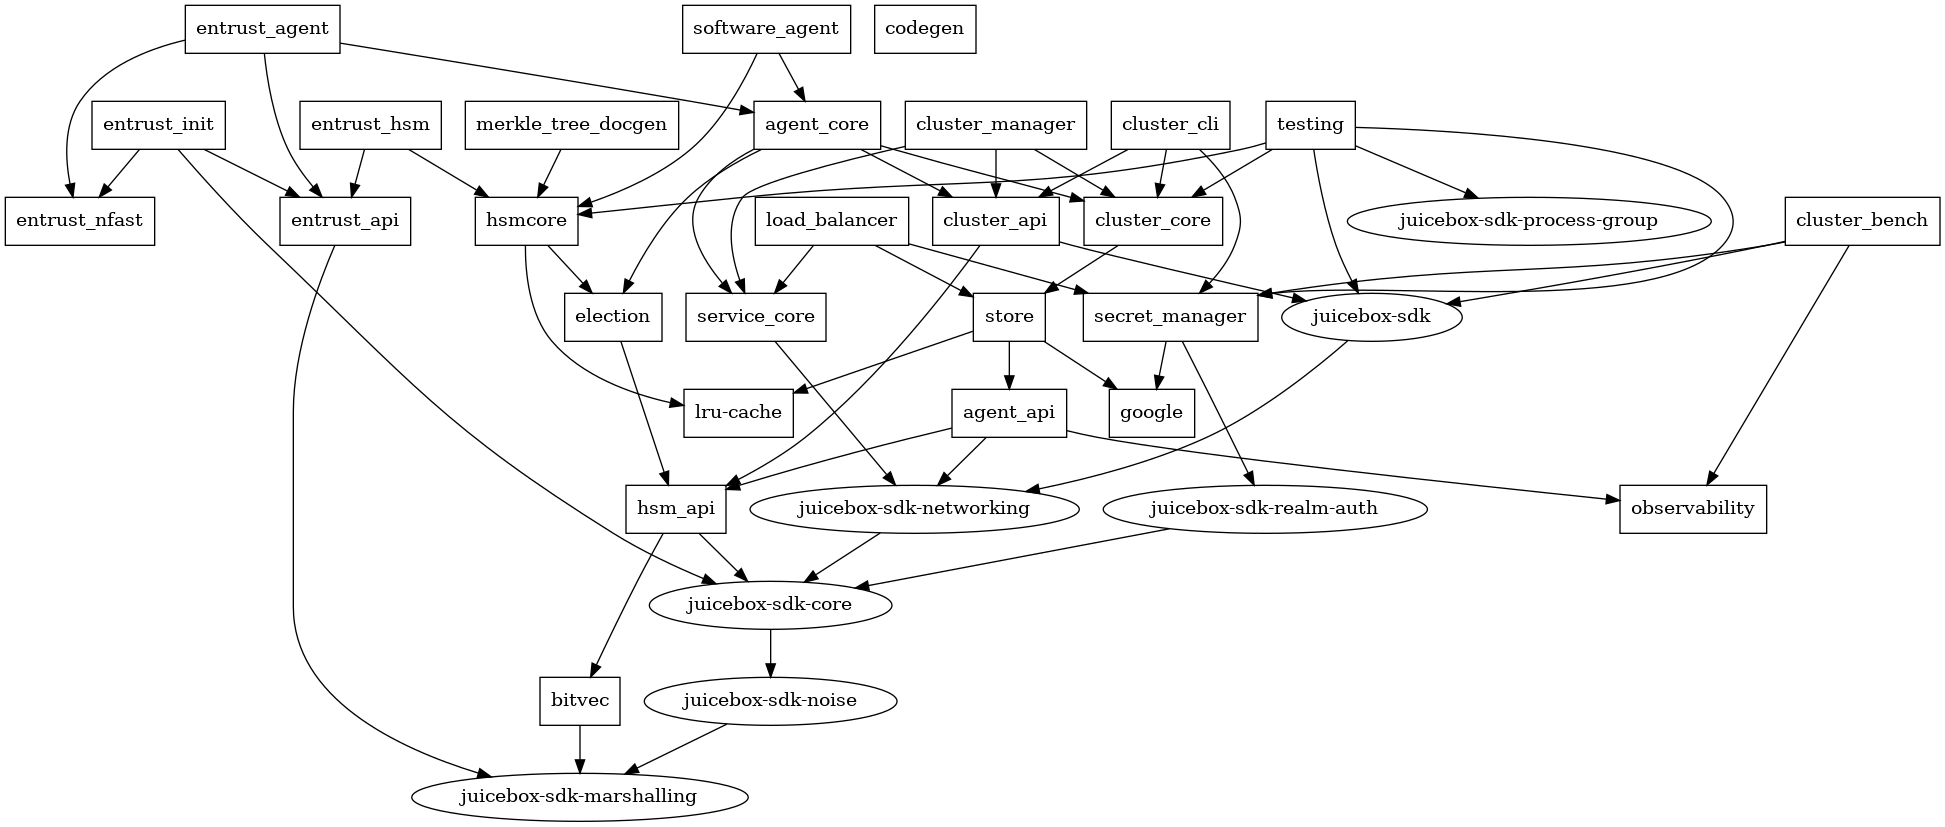
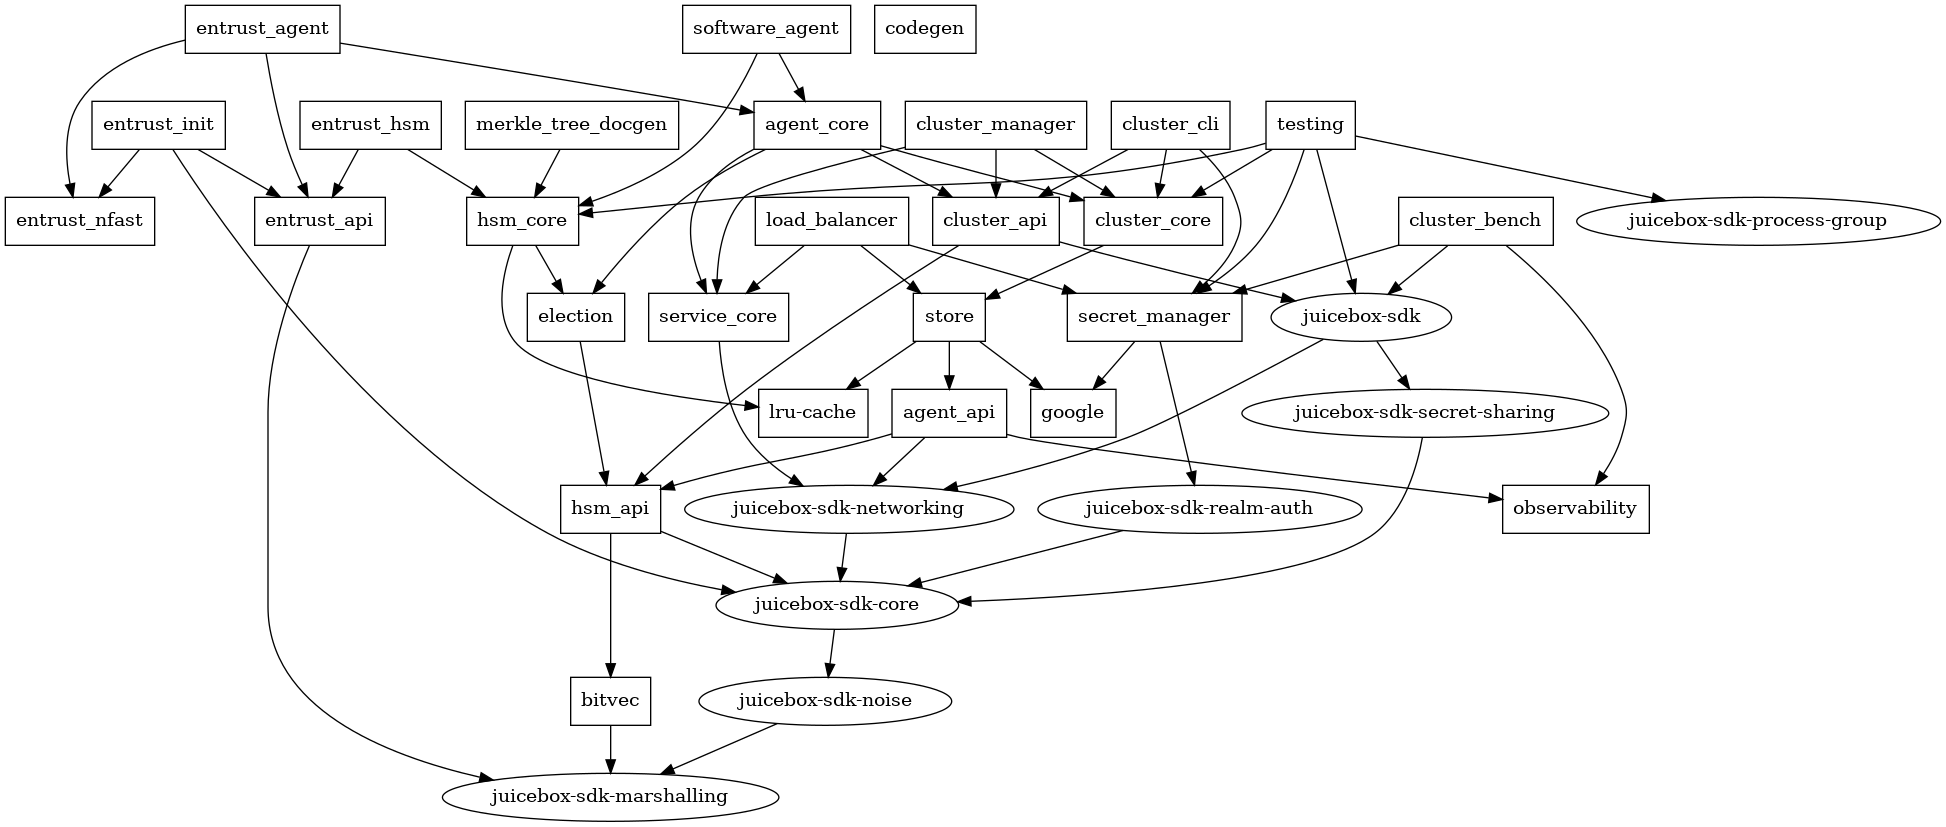
rename hsmcore to hsm_core

diff --git a/merkle_tree_docgen/src/main.rs b/merkle_tree_docgen/src/main.rs
@@ -8,11 +8,11 @@ use std::process::Command;
 use bitvec::{BitVec, Bits};
 use hsm_api::merkle::{Branch, Dir, HashOutput, KeyVec, Node, ReadProof};
 use hsm_api::{OwnedRange, RecordId};
-use hsmcore::merkle::dot::{hash_id, visit_tree_at, DotGraph, DotVisitor, Visitor};
-use hsmcore::merkle::testing::{
+use hsm_core::merkle::dot::{hash_id, visit_tree_at, DotGraph, DotVisitor, Visitor};
+use hsm_core::merkle::testing::{
     new_empty_tree, rec_id, tree_insert, MemStore, TestHash, TestHasher,
 };
-use hsmcore::merkle::Tree;
+use hsm_core::merkle::Tree;
 use juicebox_sdk_core::types::RealmId;
 
 const REALM: RealmId = RealmId([1; 16]);
@@ -35,7 +35,7 @@ struct Args {
 async fn main() {
     let args = Args::parse();
 
-    hsmcore::hash::set_global_rng_owned(rand_core::OsRng);
+    hsm_core::hash::set_global_rng_owned(rand_core::OsRng);
 
     let o = PathBuf::from("docs/merkle_tree");
     doc_intro(&o);

diff --git a/testing/tests/bigtable.rs b/testing/tests/bigtable.rs
@@ -7,8 +7,8 @@ use agent_api::merkle::TreeStoreReader;
 use bitvec::BitVec;
 use hsm_api::merkle::{NodeKey, StoreDelta};
 use hsm_api::{EntryMac, GroupId, LogEntry, LogIndex, OwnedRange, RecordId};
-use hsmcore::hsm::MerkleHasher;
-use hsmcore::merkle::Tree;
+use hsm_core::hsm::MerkleHasher;
+use hsm_core::merkle::Tree;
 use juicebox_sdk_core::types::RealmId;
 use juicebox_sdk_process_group::ProcessGroup;
 use observability::metrics;
@@ -390,7 +390,7 @@ async fn append_store_delta() {
 
     // The `Tree` instance includes an overlay. It's normally part of the HSM.
     // The overlay includes hash tables which need an RNG registered.
-    hsmcore::hash::set_global_rng_owned(rand_core::OsRng);
+    hsm_core::hash::set_global_rng_owned(rand_core::OsRng);
 
     let mut tree = Tree::<MerkleHasher>::with_existing_root(starting_root, 15);
     let vp = tree.latest_proof(rp).unwrap();

diff --git a/entrust_hsm/src/lib.rs b/entrust_hsm/src/lib.rs
@@ -17,8 +17,8 @@ use entrust_api::{
     ChunkCount, ChunkNumber, KeyRole, SEEJobRequestType, SEEJobResponseType, StartRequest,
     StartResponse, Ticket, Trailer,
 };
-use hsmcore::hash::{HashExt, HashMap};
-use hsmcore::hsm::{
+use hsm_core::hash::{HashExt, HashMap};
+use hsm_core::hsm::{
     mac::MacKey, Hsm, HsmOptions, MetricsReporting, RealmKeys, RecordEncryptionKey,
 };
 use juicebox_sdk_marshalling as marshalling;
@@ -189,7 +189,7 @@ fn start_hsm(req: StartRequest) -> Result<Hsm<NCipher>, StartResponse> {
     };
 
     if req.nvram == entrust_api::NvRamState::Reinitialize {
-        use hsmcore::hal::NVRam;
+        use hsm_core::hal::NVRam;
         platform.write(Vec::new()).map_err(|err| {
             StartResponse::PersistenceError(format!("error while re-initializing NVRAM: {:?}", err))
         })?;

diff --git a/software_agent/src/http_hsm/host.rs b/software_agent/src/http_hsm/host.rs
@@ -21,8 +21,8 @@ use tracing::warn;
 use url::Url;
 
 use hsm_api::rpc::Nanos;
-use hsmcore::hal::{Clock, IOError, NVRam, MAX_NVRAM_SIZE};
-use hsmcore::hsm::{Hsm, HsmError, HsmOptions, MetricsReporting, PersistenceError, RealmKeys};
+use hsm_core::hal::{Clock, IOError, NVRam, MAX_NVRAM_SIZE};
+use hsm_core::hsm::{Hsm, HsmError, HsmOptions, MetricsReporting, PersistenceError, RealmKeys};
 
 struct HalInstant(Instant);
 impl Sub for HalInstant {
@@ -117,7 +117,7 @@ impl HttpHsm {
         name: String,
         realm_keys: RealmKeys,
     ) -> Result<Self, PersistenceError> {
-        hsmcore::hash::set_global_rng_owned(OsRng);
+        hsm_core::hash::set_global_rng_owned(OsRng);
         let state_file = state_dir.join(&name);
         Ok(HttpHsm(Arc::new(Mutex::new(Hsm::new(
             HsmOptions {

diff --git a/hsm_core/src/hash.rs b/hsm_core/src/hash.rs
@@ -65,7 +65,7 @@ impl<K, S: Default> HashExt for HashSet<K, S> {
 /// # Example
 ///
 /// ```
-/// use hsmcore::hash::{HashExt, HashMap, NotRandomized};
+/// use hsm_core::hash::{HashExt, HashMap, NotRandomized};
 /// // This map doesn't need mitigation from HashDoS attacks because ___.
 /// // It's best to avoid randomization here because ___.
 /// let map: HashMap<String, String, NotRandomized> = HashMap::new();
@@ -94,7 +94,7 @@ impl BuildHasher for NotRandomized {
 /// # Example
 ///
 /// ```
-/// use hsmcore::hash::{HashExt, HashMap, set_global_rng_owned};
+/// use hsm_core::hash::{HashExt, HashMap, set_global_rng_owned};
 /// set_global_rng_owned(rand_core::OsRng);
 /// // The third generic parameter defaults to RandomState.
 /// let map: HashMap<String, String> = HashMap::new();

diff --git a/merkle_tree_docgen/src/overlay.rs b/merkle_tree_docgen/src/overlay.rs
@@ -4,10 +4,10 @@ use super::{dot_to_png, format_branch_label, DocTree, RecordIdHighlighter};
 use bitvec::Bits;
 use hsm_api::merkle::{Dir, KeyVec, Node};
 use hsm_api::{OwnedRange, RecordId};
-use hsmcore::merkle::dot::{hash_id, DotAttributes, DotGraph, DotVisitor, Visitor};
-use hsmcore::merkle::proof::VerifiedProof;
-use hsmcore::merkle::testing::{rec_id, TestHash, TestHasher};
-use hsmcore::merkle::Tree;
+use hsm_core::merkle::dot::{hash_id, DotAttributes, DotGraph, DotVisitor, Visitor};
+use hsm_core::merkle::proof::VerifiedProof;
+use hsm_core::merkle::testing::{rec_id, TestHash, TestHasher};
+use hsm_core::merkle::Tree;
 
 pub fn tree_overlay(dir: &Path) {
     let dir = dir.join("overlay");

diff --git a/software_agent/src/main.rs b/software_agent/src/main.rs
@@ -4,8 +4,6 @@ use clap::Parser;
 use futures::future;
 use hkdf::Hkdf;
 use hmac::SimpleHmac;
-use hsmcore::hsm::RealmKeys;
-use hsmcore::hsm::RecordEncryptionKey;
 use rand::{rngs::OsRng, RngCore};
 use std::fmt::Write;
 use std::fs;
@@ -18,7 +16,8 @@ use tracing::info;
 use agent_core::hsm::HsmClient;
 use agent_core::Agent;
 use google::auth;
-use hsmcore::hsm::mac::MacKey;
+use hsm_core::hsm::mac::MacKey;
+use hsm_core::hsm::{RealmKeys, RecordEncryptionKey};
 use observability::{logging, metrics};
 use service_core::clap_parsers::{parse_duration, parse_listen};
 use service_core::future_task::FutureTasks;

diff --git a/entrust_hsm/src/platform.rs b/entrust_hsm/src/platform.rs
@@ -13,7 +13,7 @@ use super::seelib::{
 };
 use entrust_api::WorldSignerError;
 use hsm_api::rpc::Nanos;
-use hsmcore::hal::{Clock, IOError, NVRam, MAX_NVRAM_SIZE};
+use hsm_core::hal::{Clock, IOError, NVRam, MAX_NVRAM_SIZE};
 
 /// NCipher implements the Platform trait, which provides platform specific
 /// functionality to the hsmcore library.
@@ -45,7 +45,7 @@ impl NCipher {
 }
 
 pub fn register_global_rng() {
-    hsmcore::hash::set_global_rng_owned(new_rng());
+    hsm_core::hash::set_global_rng_owned(new_rng());
 }
 
 fn new_rng() -> BlockRng<NCipherRngFiller> {

diff --git a/store/src/merkle.rs b/store/src/merkle.rs
@@ -604,9 +604,9 @@ fn encode_prefix_into(prefix: &KeyVec, dest: &mut Vec<u8>) {
 mod tests {
     use super::*;
     use bitvec::bitvec;
-    use hsmcore::hsm::MerkleHasher;
-    use hsmcore::merkle::testing::{rec_id, TestHash};
-    use hsmcore::merkle::NodeHashBuilder;
+    use hsm_core::hsm::MerkleHasher;
+    use hsm_core::merkle::testing::{rec_id, TestHash};
+    use hsm_core::merkle::NodeHashBuilder;
 
     #[test]
     fn store_key_encoding() {

diff --git a/merkle_tree_docgen/src/split.rs b/merkle_tree_docgen/src/split.rs
@@ -5,8 +5,8 @@ use bitvec::bitvec;
 use bitvec::Bits;
 use hsm_api::merkle::{Dir, KeyVec, Node};
 use hsm_api::OwnedRange;
-use hsmcore::merkle::dot::{hash_id, DotAttributes, DotGraph};
-use hsmcore::merkle::testing::{rec_id, TestHash};
+use hsm_core::merkle::dot::{hash_id, DotAttributes, DotGraph};
+use hsm_core::merkle::testing::{rec_id, TestHash};
 
 pub fn doc_splits_intro(dir: &Path) {
     let dir = dir.join("splits");

diff --git a/merkle_tree_docgen/src/merge.rs b/merkle_tree_docgen/src/merge.rs
@@ -4,8 +4,8 @@ use std::path::Path;
 use bitvec::bitvec;
 use bitvec::Bits;
 use hsm_api::merkle::KeyVec;
-use hsmcore::merkle::dot::{hash_id, DotGraph};
-use hsmcore::merkle::testing::rec_id;
+use hsm_core::merkle::dot::{hash_id, DotGraph};
+use hsm_core::merkle::testing::rec_id;
 
 use super::TreeIndex;
 
